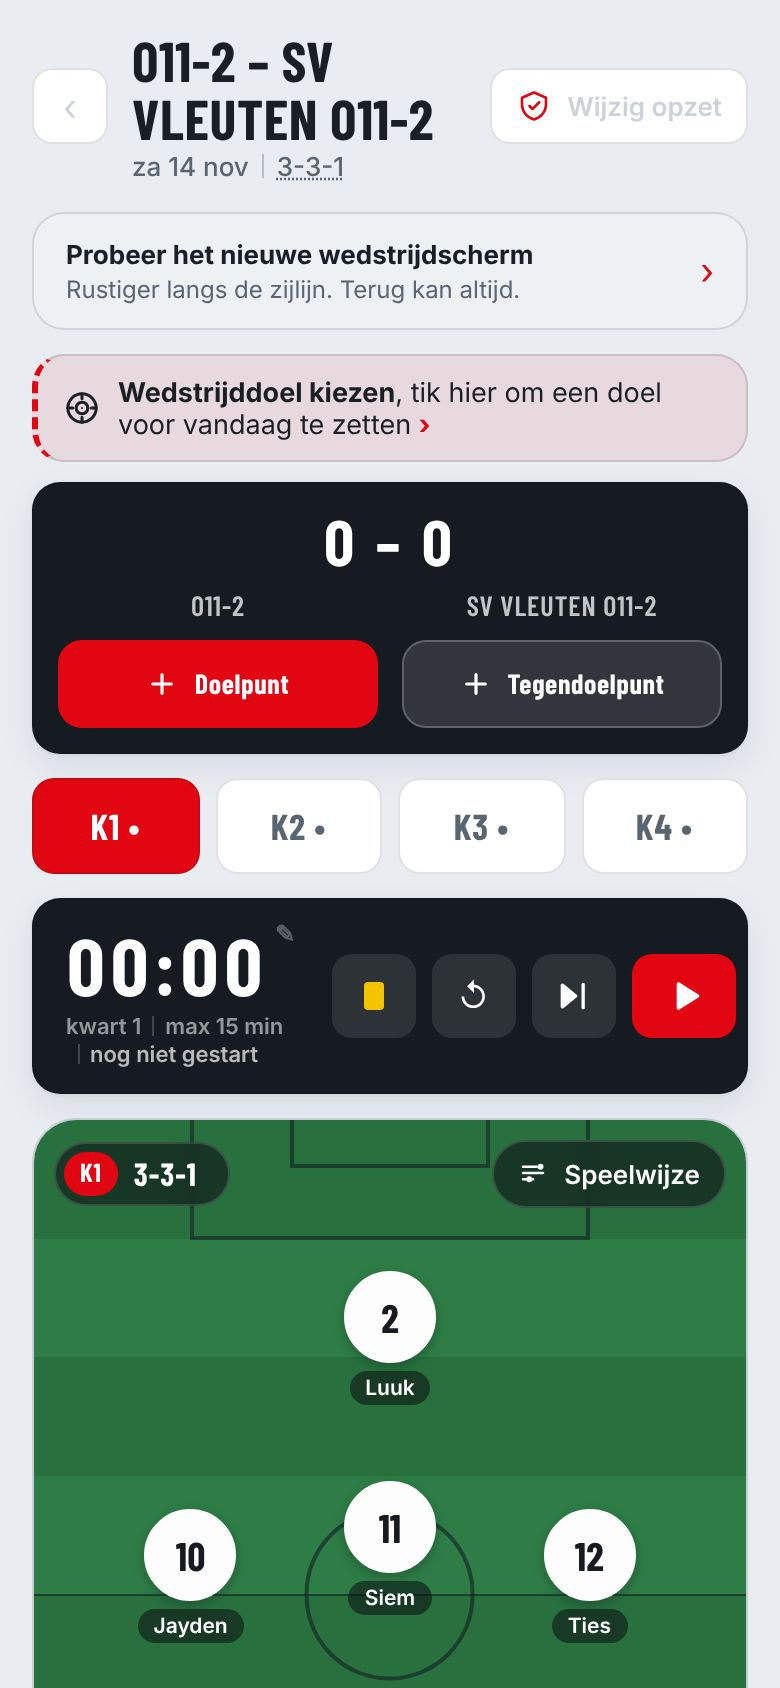
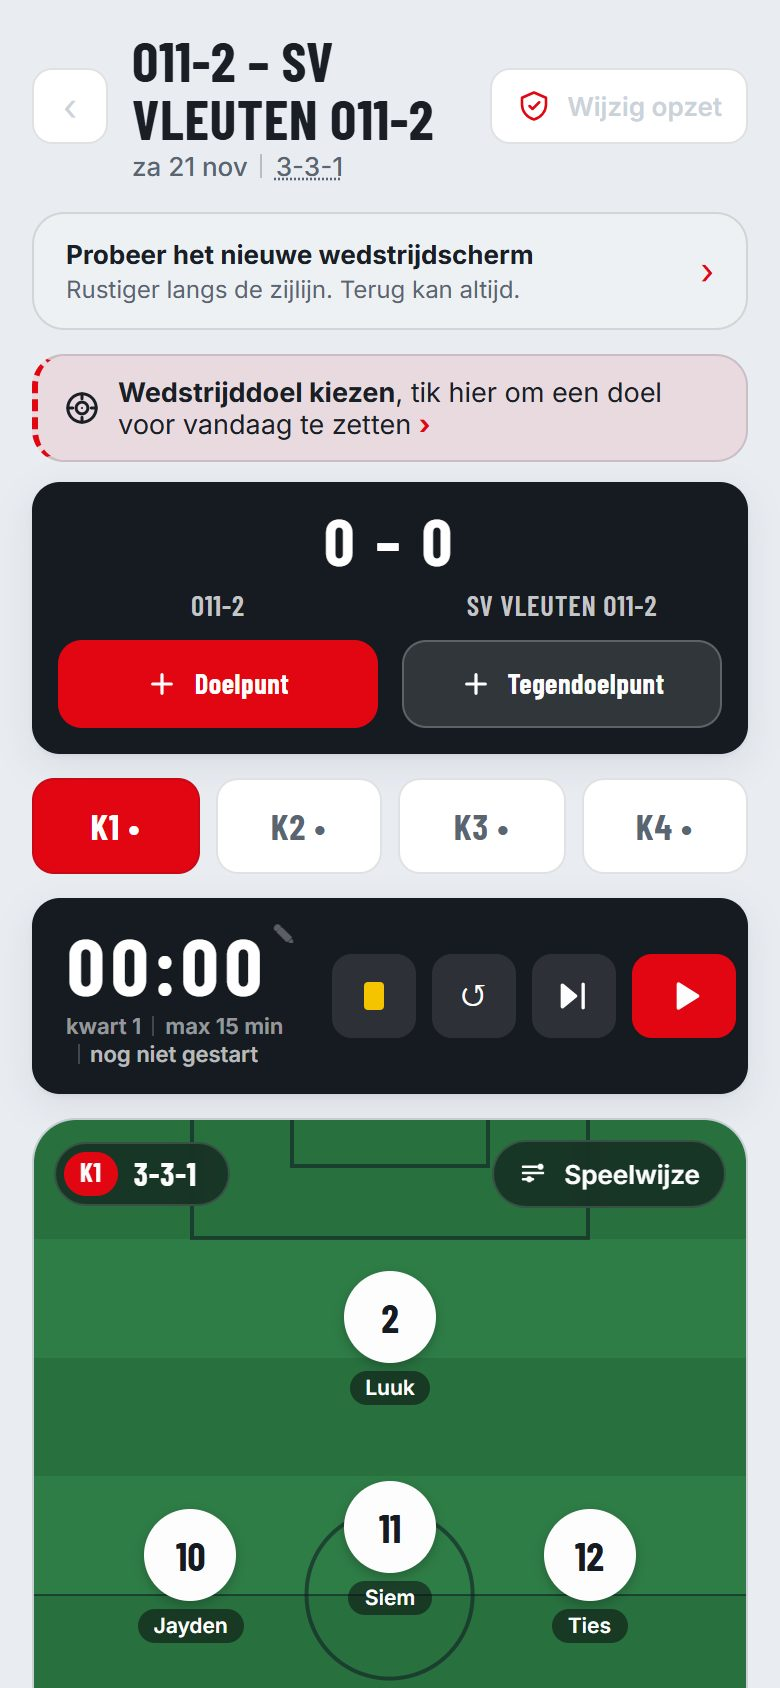
Over-pagina: schermen in licht en donker, bezoeker kiest
- Knop "Licht / Donker" bij "Zo ziet Cluppie eruit": wisselt alle laptop- en telefoonschermen;
  begint op de systeeminstelling van de bezoeker en onthoudt de keuze
- Tien donkere schermen (-donker.jpg) en de lichte opnieuw gemaakt, zodat elk paar gelijk is
- tools/over-schermen.mjs maakt alle schermen opnieuw uit de demomodus (licht en donker)
- Demo: de komende speelronde ligt altijd in de toekomst (ook op zaterdagmiddag)

diff --git a/public/over.html b/public/over.html
@@ -166,7 +166,13 @@
   <div class="container">
     <div class="demo__kop">
       <h2>Zo ziet Cluppie eruit</h2>
-      <p class="lead">Op de telefoon langs het veld, en op de laptop thuis of in de bestuurskamer. Hieronder de laptopweergave en de telefoon, met een verzonnen club: cluppie.io.</p>
+      <div>
+        <p class="lead">Op de telefoon langs het veld, en op de laptop thuis of in de bestuurskamer. Hieronder de laptopweergave en de telefoon, met een verzonnen club: cluppie.io.</p>
+        <div class="thema-keuze" role="group" aria-label="Schermen tonen in licht of donker">
+          <button type="button" data-schermthema="licht" aria-pressed="true">Licht</button>
+          <button type="button" data-schermthema="donker" aria-pressed="false">Donker</button>
+        </div>
+      </div>
     </div>
     <div class="wissel" data-wissel>
       <div class="tabs tabs--rij" role="tablist" aria-label="Schermen per rol">
@@ -212,8 +218,8 @@
       <ul class="telefoons__rij" tabindex="0" aria-label="Schermen van Cluppie op de telefoon, schuif opzij voor meer">
       <li>
         <figure class="telefoon">
-          <div class="telefoon__scherm"><img src="over/app/telefoon-vandaag.jpg" width="780" height="1688" alt="Cluppie op de telefoon, scherm vandaag: Het startscherm: de volgende wedstrijd en wat er deze week nog komt." loading="lazy"></div>
-          <figcaption><strong>Vandaag</strong> Het startscherm: de volgende wedstrijd en wat er deze week nog komt.</figcaption>
+          <div class="telefoon__scherm"><img src="over/app/telefoon-vandaag.jpg" width="780" height="1688" alt="Cluppie op de telefoon, scherm vandaag: Het startscherm: wat er vandaag en deze week op het programma staat." loading="lazy"></div>
+          <figcaption><strong>Vandaag</strong> Het startscherm: wat er vandaag en deze week op het programma staat.</figcaption>
         </figure>
       </li>
       <li>
@@ -589,6 +595,25 @@
     entries.forEach(e=>{ if(e.isIntersecting) zet(e.target.dataset.stap); });
   },{rootMargin:'-45% 0px -45% 0px'});
   document.querySelectorAll('.log [data-stap]').forEach(el=>sio.observe(el));
+
+  /* schermen in licht of donker: de keuze van de bezoeker, anders zijn systeeminstelling.
+     Zonder script staan de lichte versies er gewoon. Elk scherm heeft een -donker.jpg naast zich. */
+  (()=>{
+    const knoppen=[...document.querySelectorAll('[data-schermthema]')]; if(!knoppen.length) return;
+    const beelden=[...document.querySelectorAll('#demo img[src*="over/app/"]')];
+    const zet=(thema, bewaar)=>{
+      beelden.forEach(img=>{
+        const licht=img.getAttribute('src').replace(/-donker\.jpg$/,'.jpg');
+        const doel=thema==='donker' ? licht.replace(/\.jpg$/,'-donker.jpg') : licht;
+        if(img.getAttribute('src')!==doel) img.setAttribute('src', doel);
+      });
+      knoppen.forEach(k=>k.setAttribute('aria-pressed', k.dataset.schermthema===thema));
+      if(bewaar){ try{ localStorage.setItem('cluppieOverSchermthema', thema); }catch(e){} }
+    };
+    let begin=null; try{ begin=localStorage.getItem('cluppieOverSchermthema'); }catch(e){}
+    zet(begin || (matchMedia('(prefers-color-scheme: light)').matches ? 'licht' : 'donker'), false);
+    knoppen.forEach(k=>k.addEventListener('click',()=>zet(k.dataset.schermthema, true)));
+  })();
 
   /* voordat we naar index.html gaan: onthouden dat de intro is gezien,
      anders stuurt de gate daar ons meteen weer hierheen terug. */

diff --git a/public/over/over.css b/public/over/over.css
@@ -355,3 +355,13 @@ h3 { font-size: var(--text-title); line-height: 1.05; }
   .telefoons__rij { display: grid; grid-auto-flow: column; grid-template-columns: none; grid-auto-columns: minmax(12rem, 62%); overflow-x: auto; scroll-snap-type: x mandatory; padding-bottom: var(--space-sm); overscroll-behavior-x: contain; }
   .telefoons__rij li { scroll-snap-align: start; }
 }
+
+/* schermen in licht of donker (keuze van de bezoeker) */
+.thema-keuze { display: inline-flex; margin-top: var(--space-lg); padding: var(--space-3xs); border-radius: var(--radius-pill); background: var(--color-paper); box-shadow: 0 0 0 1px var(--color-rule); }
+.thema-keuze button { min-height: 44px; padding: 0 var(--space-lg); border: 0; border-radius: var(--radius-pill); background: transparent; color: var(--color-ink-2); font-weight: 600; cursor: pointer; transition: background-color var(--dur-short) var(--ease-out), color var(--dur-short) var(--ease-out); }
+.thema-keuze button:hover { color: var(--color-ink); }
+.thema-keuze button[aria-pressed="true"] { background: var(--color-ink); color: var(--color-paper); }
+.thema-keuze button:active { transform: translateY(1px); }
+.thema-keuze button:focus-visible { outline: 2px solid var(--color-focus); outline-offset: 2px; }
+.thema-keuze button:disabled { opacity: 0.55; cursor: not-allowed; }
+@media (prefers-reduced-motion: reduce) { .thema-keuze button { transition: none; } }

diff --git a/public/js/firebase-demo.js b/public/js/firebase-demo.js
@@ -263,7 +263,11 @@ const zetSeed = (pad, data) => store.set(pad, pasToe(undefined, data));
 const isoDag = d => `${d.getFullYear()}-${String(d.getMonth() + 1).padStart(2, '0')}-${String(d.getDate()).padStart(2, '0')}`;
 const dag = n => { const d = new Date(); d.setHours(12, 0, 0, 0); d.setDate(d.getDate() + n); return isoDag(d); };
 /* zaterdagen rond vandaag: zaterdag(0) = komende zaterdag (of vandaag als het zaterdag is) */
-const zaterdag = k => { const d = new Date(); d.setHours(12, 0, 0, 0); d.setDate(d.getDate() + ((6 - d.getDay() + 7) % 7) + 7 * k); return isoDag(d); };
+/* de komende speelronde ligt altijd in de toekomst: op zaterdag na 11 uur is dat de zaterdag erna */
+const zaterdag = k => {
+  const d = new Date(); if (d.getDay() === 6 && d.getHours() >= 11) d.setDate(d.getDate() + 1);
+  d.setHours(12, 0, 0, 0); d.setDate(d.getDate() + ((6 - d.getDay() + 7) % 7) + 7 * k); return isoDag(d);
+};
 let zaad = 20261113;
 const rnd = () => { zaad = (zaad * 1664525 + 1013904223) % 4294967296; return zaad / 4294967296; };
 const kies = a => a[Math.floor(rnd() * a.length)];
